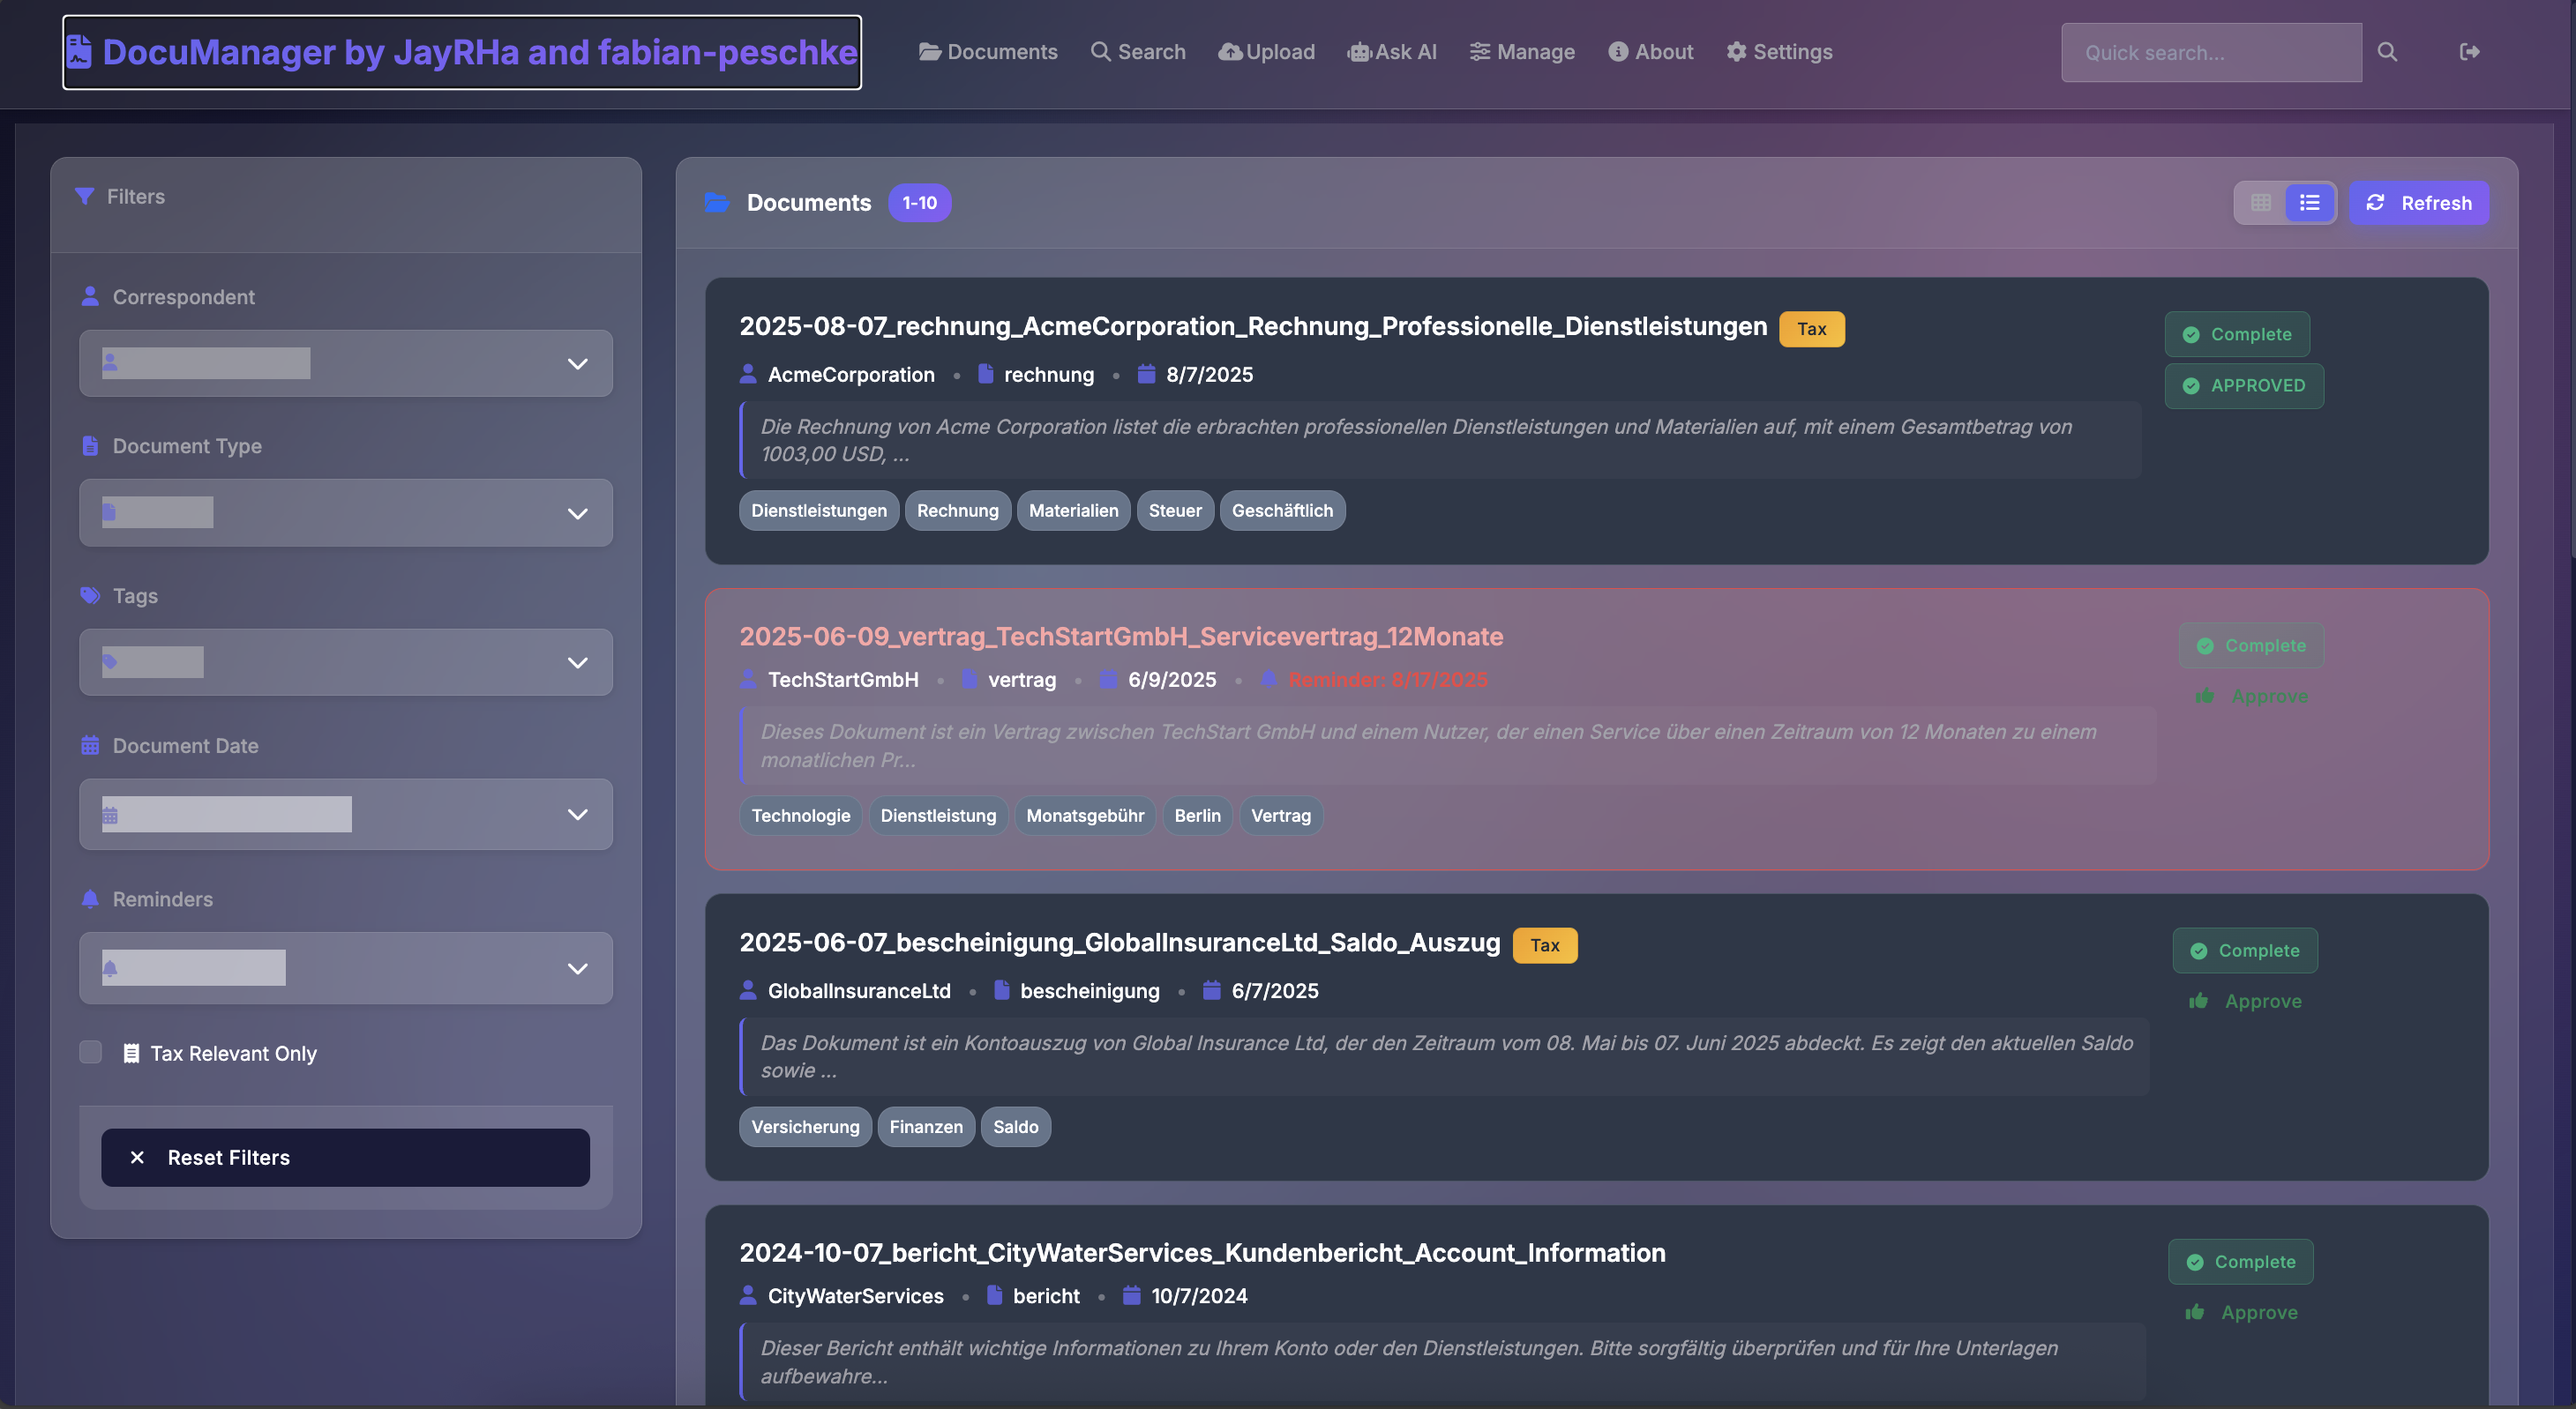
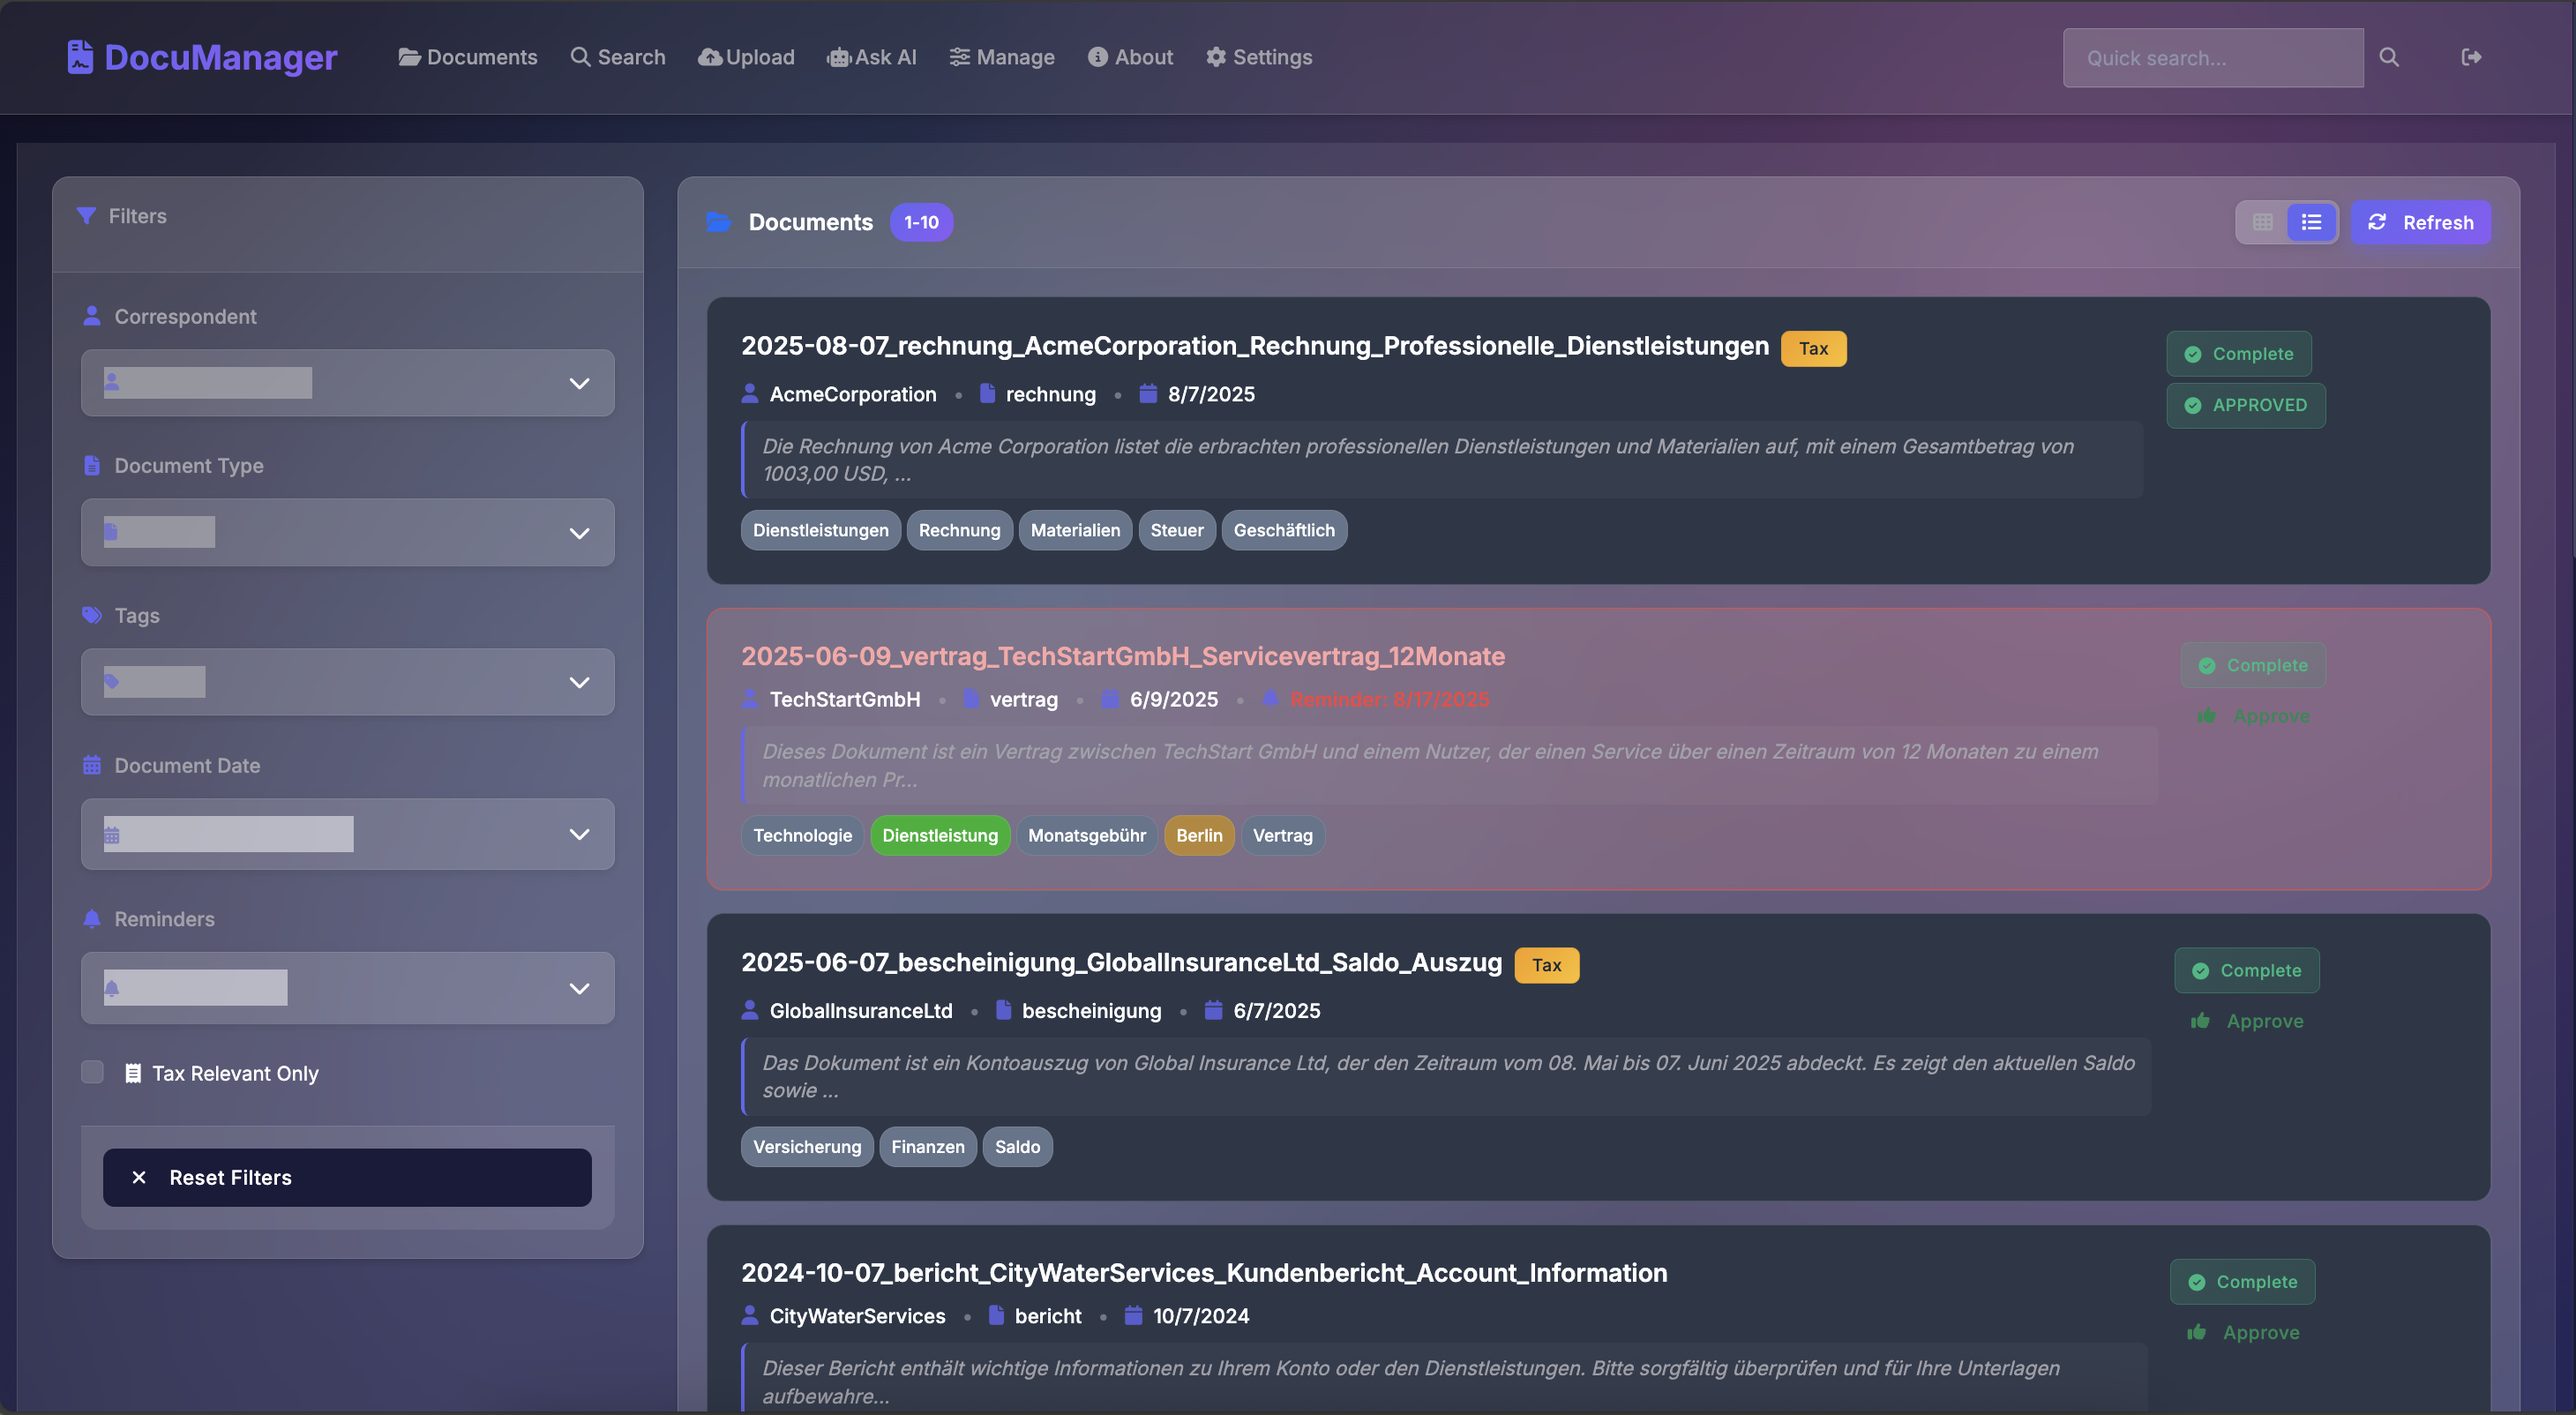
Update author credits in HTML files and README.md

Changed region(s): [[0.0, 0.0, 1.0, 1.0], [0.0312, 0.184, 0.2493, 0.7666], [0.8103, 0.0, 0.9349, 0.0613]]

diff --git a/frontend/index.html b/frontend/index.html
@@ -65,7 +65,7 @@
     <nav class="navbar navbar-expand-lg fixed-top">
         <div class="container-fluid px-5">
             <a class="navbar-brand gradient-text me-4" href="#" onclick="showTab('documents')">
-                <i class="fas fa-file-contract me-2"></i>DocuManager by JayRHa and fabian-peschke
+                <i class="fas fa-file-contract me-2"></i>DocuManager
             </a>
             <button class="navbar-toggler border-0" type="button" data-bs-toggle="collapse" data-bs-target="#navbarNav"
                 aria-controls="navbarNav" aria-expanded="false" aria-label="Toggle navigation">
@@ -1737,7 +1737,7 @@
                             <div class="row">
                                 <div class="col-md-6">
                                     <div class="mb-4">
-                                        <h5 class="text-muted mb-3">Created by JayRHa and fabian-peschke</h5>
+                                        <h5 class="text-muted mb-3">Created by Jannik Reinhard and Fabian Peschke</h5>
                                         <ul class="list-unstyled">
                                             <li><i class="fas fa-cloud me-2 text-primary"></i>Cloud Solutions</li>
                                             <li><i class="fas fa-desktop me-2 text-primary"></i>Endpoint Management</li>
@@ -1802,7 +1802,7 @@
     <!-- Footer Credit -->
     <div class="text-center py-3 text-muted">
         <small>
-            Created with ❤ by <a href="mailto:hi@visqo.com" class="text-decoration-none">JayRHa and fabian-peschke</a>
+            Created with ❤ by <a href="mailto:hi@visqo.com" class="text-decoration-none">Jannik Reinhard and Fabian Peschke</a>
         </small>
     </div>
 
@@ -2474,7 +2474,7 @@
                         </div>
                         <div class="mt-4 text-center">
                             <small class="text-muted">
-                                Created with ❤ by <a href="mailto:hi@visqo.com" class="text-decoration-none">JayRHa and fabian-peschke</a>
+                                Created with ❤ by <a href="mailto:hi@visqo.com" class="text-decoration-none">Jannik Reinhard and Fabian Peschke</a>
                             </small>
                             <div class="mt-2">
                                 <a href="https://www.buymeacoffee.com/jannikreinf" target="_blank">

diff --git a/frontend/login.html b/frontend/login.html
@@ -151,7 +151,7 @@
         <div class="text-center mt-5 text-white">
             <p class="mb-1">
                 <small>
-                    Created with ❤ by <a href="mailto:hi@visqo.com" class="text-white-50">JayRHa and fabian-peschke</a>
+                    Created with ❤ by <a href="mailto:hi@visqo.com" class="text-white-50">Jannik Reinhard and Fabian Peschke</a>
                 </small>
             </p>
             <p class="mb-1">
@@ -276,7 +276,7 @@
                         </div>
                         <div class="mt-4 text-center">
                             <small class="text-muted">
-                                Created with ❤ by <a href="mailto:hi@visqo.com" class="text-decoration-none">JayRHa and fabian-peschke</a>
+                                Created with ❤ by <a href="mailto:hi@visqo.com" class="text-decoration-none">Jannik Reinhard</a>
                             </small>
                             <div class="mt-2">
                                 <a href="https://www.buymeacoffee.com/jannikreinf" target="_blank">

diff --git a/README.md b/README.md
@@ -322,7 +322,7 @@ This project is licensed under the MIT License - see the [LICENSE](LICENSE) file
 ---
 
 <div align="center">
-Built with ❤ by JayRHa and fabian-peschke
+Built with ❤ by Jannik Reinhard and Fabian Peschke
 
 ⭐ Star the repo if you find it useful — it really helps with motivation!
 
